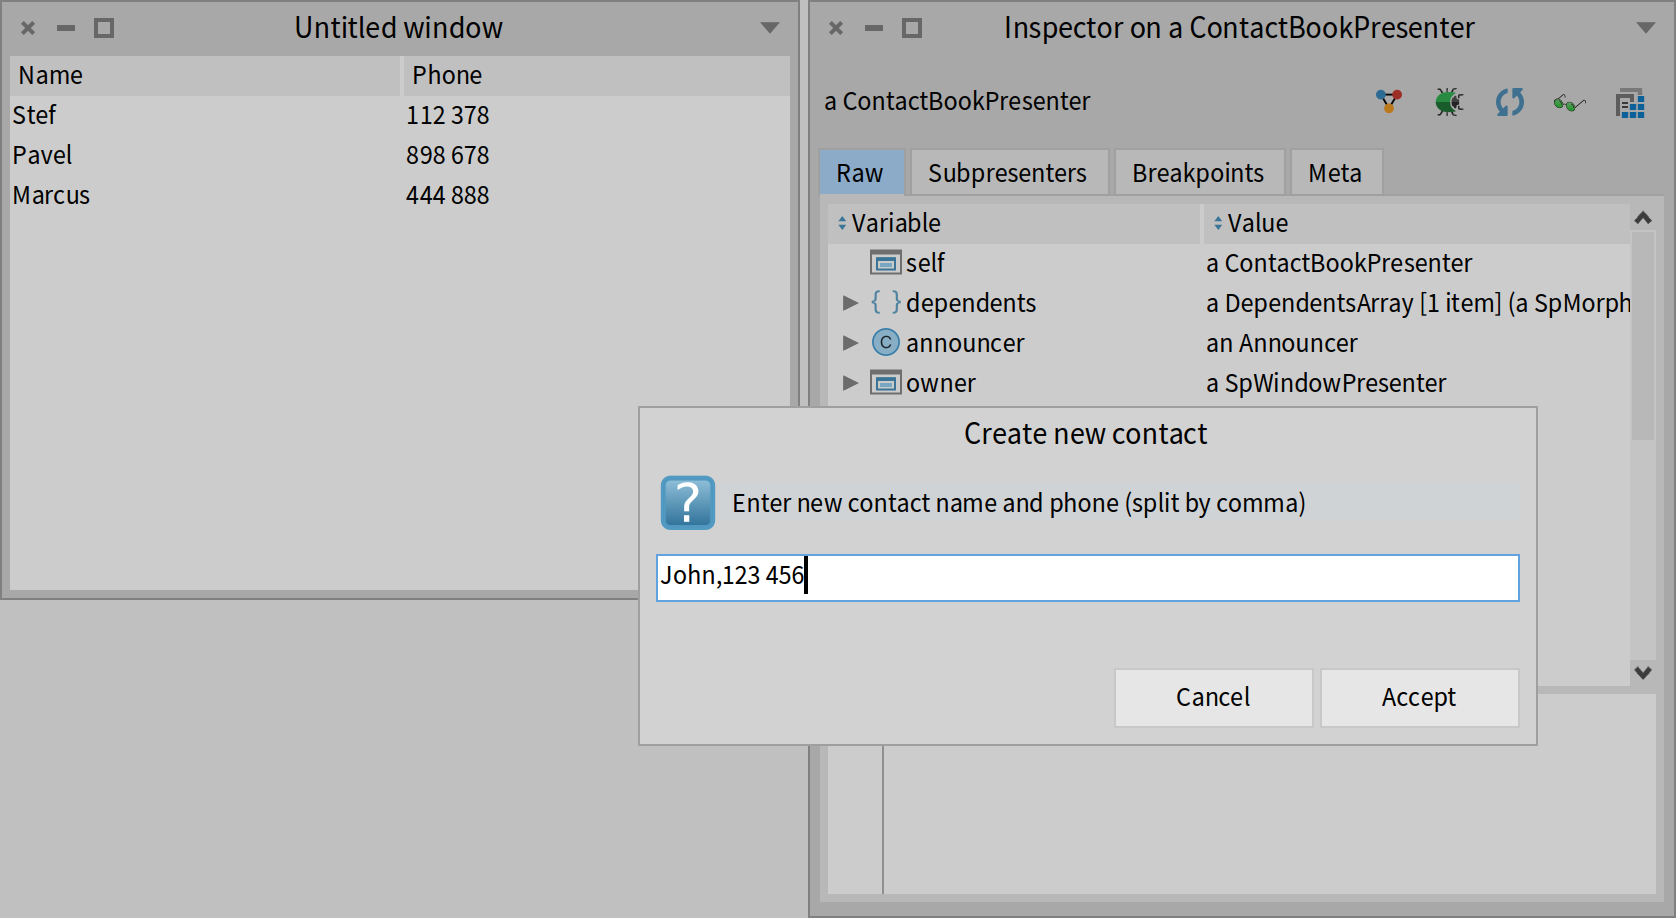
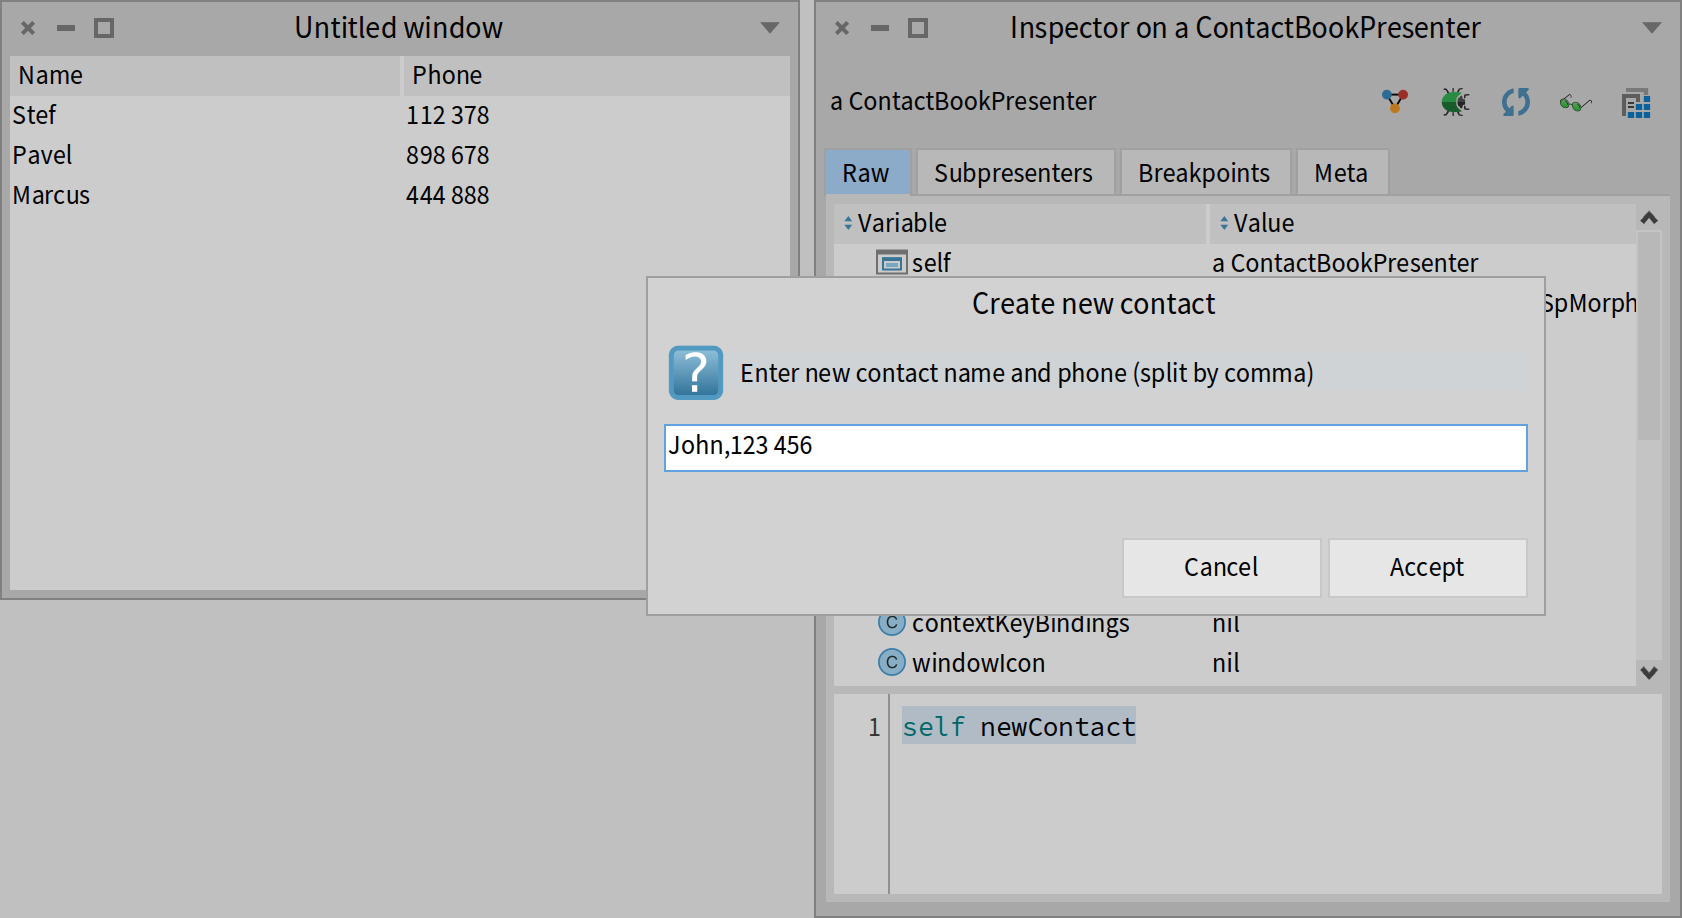
Improve image and related text

diff --git a/Chapters/ContactBook2/ContactBook.md b/Chapters/ContactBook2/ContactBook.md
@@ -288,7 +288,7 @@ ContactBookPresenter >> newContact
 ```
 
 
-To test it, we can get access to the presenter with
+To test it, we can get access to the presenter with:
 
 ```
 (ContactBookPresenter on: ContactBook coworkers)
@@ -296,9 +296,9 @@ To test it, we can get access to the presenter with
 ```
 
 
-and you can send the `newContact` message to open the GUI shown in Figure *@inspector@*.
+and you can send `self newContact` message to open the dialog shown in Figure *@inspector@*.
 
-![Playing inside the inspector. % width=80&anchor=inspector](figures/inspector.png)
+![Playing inside the inspector. % width=100&anchor=inspector](figures/inspector.png)
 
 
 #### Some extra methods
